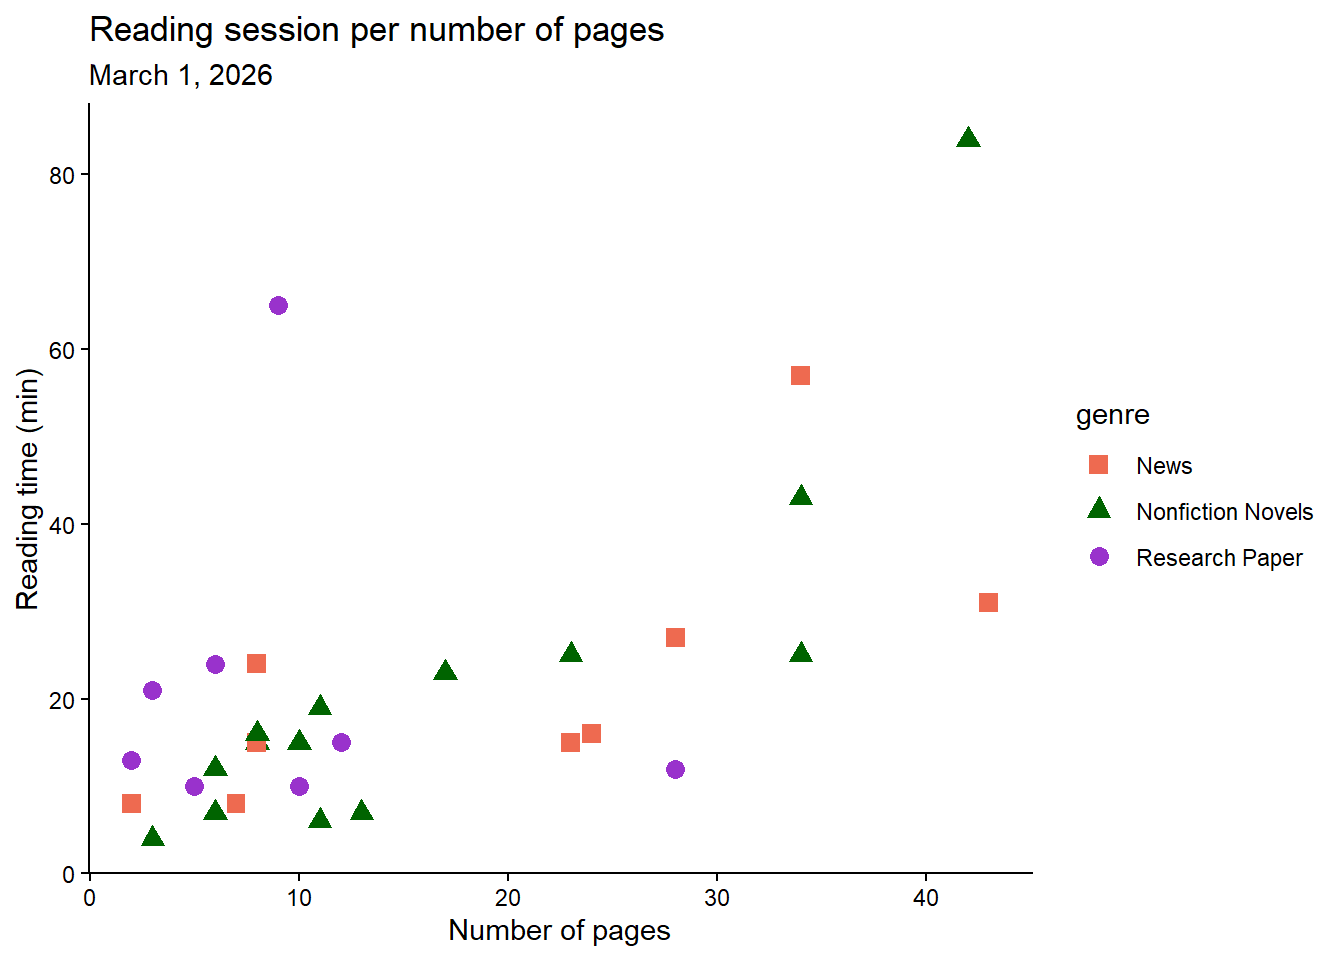
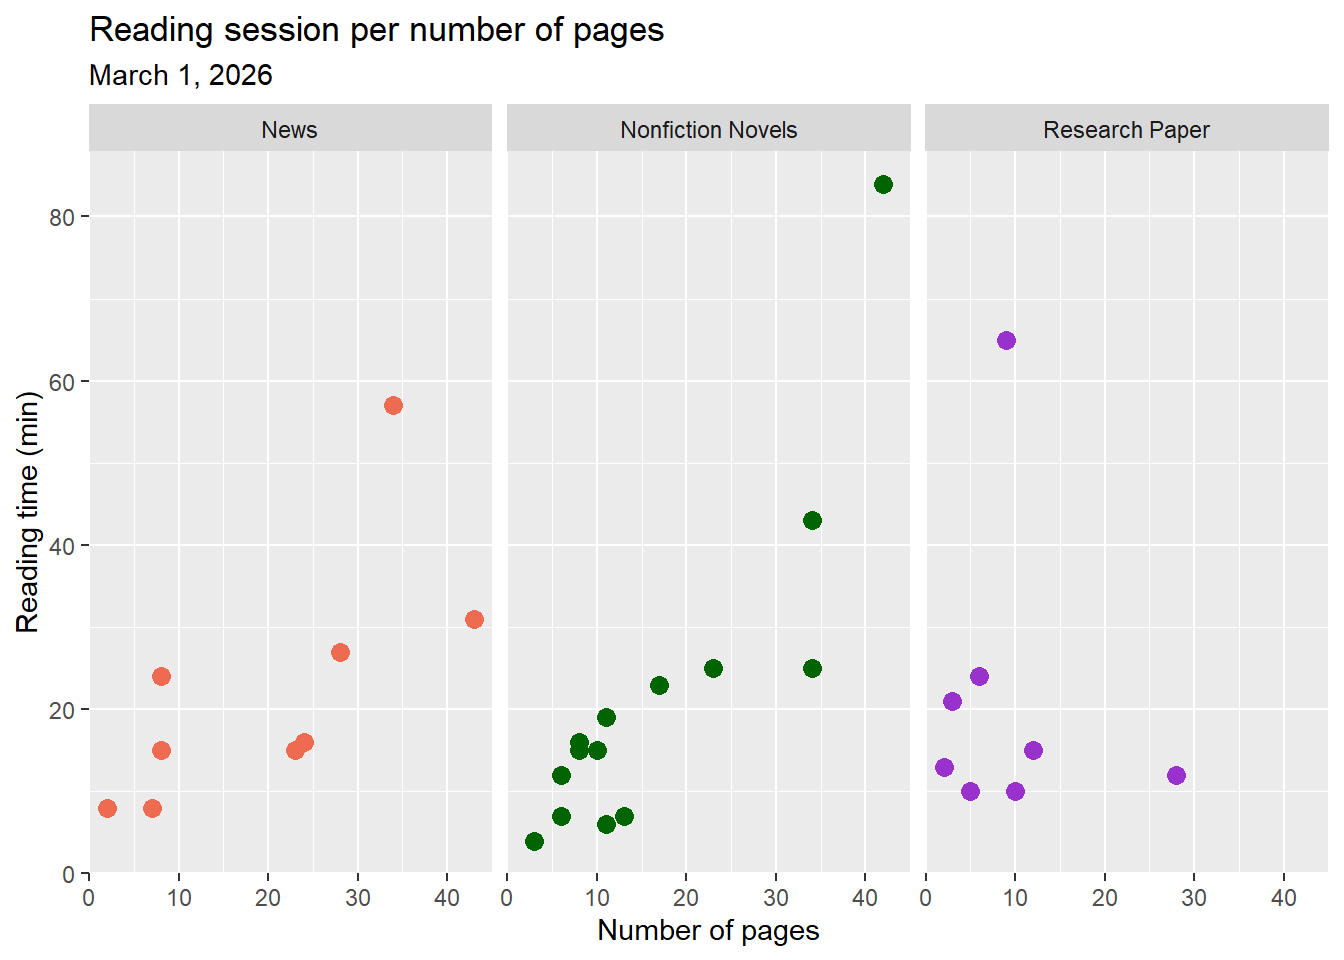
artistic statement, captions, and google slides created

diff --git a/code/03_homework_193DS.html b/code/03_homework_193DS.html
@@ -285,23 +285,24 @@ sample estimates:
 <div class="code-copy-outer-scaffold"><div class="sourceCode cell-code" id="cb11"><pre class="sourceCode r code-with-copy"><code class="sourceCode r"><span id="cb11-1"><a href="#cb11-1" aria-hidden="true" tabindex="-1"></a>reading_data <span class="ot">&lt;-</span> reading_data <span class="sc">|&gt;</span>  <span class="co">#use reading data frame</span></span>
 <span id="cb11-2"><a href="#cb11-2" aria-hidden="true" tabindex="-1"></a>  <span class="fu">clean_names</span>() <span class="sc">|&gt;</span> </span>
 <span id="cb11-3"><a href="#cb11-3" aria-hidden="true" tabindex="-1"></a>  <span class="fu">rename</span>(<span class="st">"reading_time"</span> <span class="ot">=</span> <span class="st">"time_spent_reading_min"</span>,</span>
-<span id="cb11-4"><a href="#cb11-4" aria-hidden="true" tabindex="-1"></a>         <span class="st">"genre"</span> <span class="ot">=</span> <span class="st">"reading_type"</span>)</span>
-<span id="cb11-5"><a href="#cb11-5" aria-hidden="true" tabindex="-1"></a><span class="fu">ggplot</span>(<span class="at">data =</span> reading_data,</span>
-<span id="cb11-6"><a href="#cb11-6" aria-hidden="true" tabindex="-1"></a>       <span class="fu">aes</span>(<span class="at">x =</span> reading_time,</span>
-<span id="cb11-7"><a href="#cb11-7" aria-hidden="true" tabindex="-1"></a>           <span class="at">fill =</span> genre)) <span class="sc">+</span> </span>
-<span id="cb11-8"><a href="#cb11-8" aria-hidden="true" tabindex="-1"></a>  <span class="fu">geom_histogram</span>(<span class="at">bins =</span> <span class="dv">6</span>,</span>
-<span id="cb11-9"><a href="#cb11-9" aria-hidden="true" tabindex="-1"></a>                 <span class="at">color =</span> <span class="st">"black"</span>) <span class="sc">+</span></span>
-<span id="cb11-10"><a href="#cb11-10" aria-hidden="true" tabindex="-1"></a>  <span class="fu">facet_wrap</span>(<span class="sc">~</span>genre) <span class="sc">+</span></span>
-<span id="cb11-11"><a href="#cb11-11" aria-hidden="true" tabindex="-1"></a>  <span class="fu">scale_fill_manual</span>(<span class="at">values =</span> <span class="fu">c</span>(</span>
-<span id="cb11-12"><a href="#cb11-12" aria-hidden="true" tabindex="-1"></a>    <span class="st">"Nonfiction Novels"</span> <span class="ot">=</span> <span class="st">"forestgreen"</span>,</span>
-<span id="cb11-13"><a href="#cb11-13" aria-hidden="true" tabindex="-1"></a>    <span class="st">"News"</span> <span class="ot">=</span> <span class="st">"pink"</span>,</span>
-<span id="cb11-14"><a href="#cb11-14" aria-hidden="true" tabindex="-1"></a>    <span class="st">"Research Paper"</span> <span class="ot">=</span> <span class="st">"darkorchid"</span>,</span>
-<span id="cb11-15"><a href="#cb11-15" aria-hidden="true" tabindex="-1"></a>    <span class="st">"Textbook"</span> <span class="ot">=</span> <span class="st">"cadetblue2"</span>)) <span class="sc">+</span></span>
-<span id="cb11-16"><a href="#cb11-16" aria-hidden="true" tabindex="-1"></a>  <span class="fu">labs</span>(<span class="at">title =</span> <span class="st">"Time Spent Reading Different Genres"</span>, <span class="co">#set title</span></span>
-<span id="cb11-17"><a href="#cb11-17" aria-hidden="true" tabindex="-1"></a>       <span class="at">x =</span> <span class="st">"Reading time (min)"</span>, <span class="co">#set x-axis</span></span>
-<span id="cb11-18"><a href="#cb11-18" aria-hidden="true" tabindex="-1"></a>       <span class="at">y =</span> <span class="st">"count"</span>,<span class="co">#set y-axis</span></span>
-<span id="cb11-19"><a href="#cb11-19" aria-hidden="true" tabindex="-1"></a>       <span class="at">subtitle =</span> <span class="st">"March 1, 2026"</span>) <span class="sc">+</span> </span>
-<span id="cb11-20"><a href="#cb11-20" aria-hidden="true" tabindex="-1"></a>  <span class="fu">theme</span>(<span class="at">legend.position =</span> <span class="st">"none"</span>) <span class="co">#remove legend</span></span></code></pre></div><button title="Copy to Clipboard" class="code-copy-button"><i class="bi"></i></button></div>
+<span id="cb11-4"><a href="#cb11-4" aria-hidden="true" tabindex="-1"></a>         <span class="st">"genre"</span> <span class="ot">=</span> <span class="st">"reading_type"</span>)</span></code></pre></div><button title="Copy to Clipboard" class="code-copy-button"><i class="bi"></i></button></div>
+</div>
+<div class="cell">
+<div class="code-copy-outer-scaffold"><div class="sourceCode cell-code" id="cb12"><pre class="sourceCode r code-with-copy"><code class="sourceCode r"><span id="cb12-1"><a href="#cb12-1" aria-hidden="true" tabindex="-1"></a><span class="fu">ggplot</span>(<span class="at">data =</span> reading_data,</span>
+<span id="cb12-2"><a href="#cb12-2" aria-hidden="true" tabindex="-1"></a>       <span class="fu">aes</span>(<span class="at">x =</span> reading_time,</span>
+<span id="cb12-3"><a href="#cb12-3" aria-hidden="true" tabindex="-1"></a>           <span class="at">fill =</span> genre)) <span class="sc">+</span> </span>
+<span id="cb12-4"><a href="#cb12-4" aria-hidden="true" tabindex="-1"></a>  <span class="fu">geom_histogram</span>(<span class="at">bins =</span> <span class="dv">6</span>,</span>
+<span id="cb12-5"><a href="#cb12-5" aria-hidden="true" tabindex="-1"></a>                 <span class="at">color =</span> <span class="st">"black"</span>) <span class="sc">+</span></span>
+<span id="cb12-6"><a href="#cb12-6" aria-hidden="true" tabindex="-1"></a>  <span class="fu">facet_wrap</span>(<span class="sc">~</span>genre) <span class="sc">+</span></span>
+<span id="cb12-7"><a href="#cb12-7" aria-hidden="true" tabindex="-1"></a>  <span class="fu">scale_fill_manual</span>(<span class="at">values =</span> <span class="fu">c</span>(</span>
+<span id="cb12-8"><a href="#cb12-8" aria-hidden="true" tabindex="-1"></a>    <span class="st">"Nonfiction Novels"</span> <span class="ot">=</span> <span class="st">"forestgreen"</span>,</span>
+<span id="cb12-9"><a href="#cb12-9" aria-hidden="true" tabindex="-1"></a>    <span class="st">"News"</span> <span class="ot">=</span> <span class="st">"pink"</span>,</span>
+<span id="cb12-10"><a href="#cb12-10" aria-hidden="true" tabindex="-1"></a>    <span class="st">"Research Paper"</span> <span class="ot">=</span> <span class="st">"darkorchid"</span>)) <span class="sc">+</span></span>
+<span id="cb12-11"><a href="#cb12-11" aria-hidden="true" tabindex="-1"></a>  <span class="fu">labs</span>(<span class="at">title =</span> <span class="st">"Time Spent Reading Different Genres"</span>, <span class="co">#set title</span></span>
+<span id="cb12-12"><a href="#cb12-12" aria-hidden="true" tabindex="-1"></a>       <span class="at">x =</span> <span class="st">"Reading time (min)"</span>, <span class="co">#set x-axis</span></span>
+<span id="cb12-13"><a href="#cb12-13" aria-hidden="true" tabindex="-1"></a>       <span class="at">y =</span> <span class="st">"Count"</span>,<span class="co">#set y-axis</span></span>
+<span id="cb12-14"><a href="#cb12-14" aria-hidden="true" tabindex="-1"></a>       <span class="at">subtitle =</span> <span class="st">"March 1, 2026"</span>) <span class="sc">+</span> </span>
+<span id="cb12-15"><a href="#cb12-15" aria-hidden="true" tabindex="-1"></a>  <span class="fu">theme</span>(<span class="at">legend.position =</span> <span class="st">"none"</span>) <span class="co">#remove legend</span></span></code></pre></div><button title="Copy to Clipboard" class="code-copy-button"><i class="bi"></i></button></div>
 <div class="cell-output-display">
 <div>
 <figure class="figure">
@@ -309,25 +310,22 @@ sample estimates:
 </figure>
 </div>
 </div>
-<div class="code-copy-outer-scaffold"><div class="sourceCode cell-code" id="cb12"><pre class="sourceCode r code-with-copy"><code class="sourceCode r"><span id="cb12-1"><a href="#cb12-1" aria-hidden="true" tabindex="-1"></a><span class="fu">ggplot</span>(<span class="at">data =</span> reading_data, <span class="co">#create plot with personal data</span></span>
-<span id="cb12-2"><a href="#cb12-2" aria-hidden="true" tabindex="-1"></a>       <span class="fu">aes</span>(<span class="at">x =</span> number_of_pages,<span class="co">#set x axis</span></span>
-<span id="cb12-3"><a href="#cb12-3" aria-hidden="true" tabindex="-1"></a>           <span class="at">y =</span> reading_time, <span class="co">#set y axis</span></span>
-<span id="cb12-4"><a href="#cb12-4" aria-hidden="true" tabindex="-1"></a>           <span class="at">color =</span> genre, <span class="co">#separate by color and genre</span></span>
-<span id="cb12-5"><a href="#cb12-5" aria-hidden="true" tabindex="-1"></a>           <span class="at">shape =</span> genre)) <span class="sc">+</span> <span class="co">#separate by shape and genre </span></span>
-<span id="cb12-6"><a href="#cb12-6" aria-hidden="true" tabindex="-1"></a>  <span class="fu">geom_point</span>(<span class="at">size =</span> <span class="dv">3</span>) <span class="sc">+</span> <span class="co">#add in individual data and adjust size</span></span>
-<span id="cb12-7"><a href="#cb12-7" aria-hidden="true" tabindex="-1"></a>  <span class="fu">labs</span>(<span class="at">title =</span> <span class="st">"Reading session per number of pages"</span>, <span class="co">#add title</span></span>
-<span id="cb12-8"><a href="#cb12-8" aria-hidden="true" tabindex="-1"></a>       <span class="at">x =</span> <span class="st">"Number of pages"</span>, <span class="co">#set x axis title</span></span>
-<span id="cb12-9"><a href="#cb12-9" aria-hidden="true" tabindex="-1"></a>       <span class="at">y =</span> <span class="st">"Reading time (min)"</span>,<span class="co">#set y axis title</span></span>
-<span id="cb12-10"><a href="#cb12-10" aria-hidden="true" tabindex="-1"></a>       <span class="at">subtitle =</span> <span class="st">"March 1, 2026"</span>) <span class="sc">+</span> </span>
-<span id="cb12-11"><a href="#cb12-11" aria-hidden="true" tabindex="-1"></a>  <span class="fu">theme_classic</span>() <span class="sc">+</span> <span class="co">#change theme</span></span>
-<span id="cb12-12"><a href="#cb12-12" aria-hidden="true" tabindex="-1"></a>  <span class="fu">scale_color_manual</span>(<span class="at">values =</span> <span class="fu">c</span>( <span class="co">#change colors manually</span></span>
-<span id="cb12-13"><a href="#cb12-13" aria-hidden="true" tabindex="-1"></a>    <span class="st">"Nonfiction Novels"</span> <span class="ot">=</span> <span class="st">"darkgreen"</span>,</span>
-<span id="cb12-14"><a href="#cb12-14" aria-hidden="true" tabindex="-1"></a>    <span class="st">"Research Paper"</span> <span class="ot">=</span> <span class="st">"darkorchid"</span>,</span>
-<span id="cb12-15"><a href="#cb12-15" aria-hidden="true" tabindex="-1"></a>    <span class="st">"News"</span> <span class="ot">=</span> <span class="st">"coral2"</span>)) <span class="sc">+</span></span>
-<span id="cb12-16"><a href="#cb12-16" aria-hidden="true" tabindex="-1"></a>  <span class="fu">scale_shape_manual</span>(<span class="at">values =</span> <span class="fu">c</span>( <span class="co">#change shape manually</span></span>
-<span id="cb12-17"><a href="#cb12-17" aria-hidden="true" tabindex="-1"></a>    <span class="st">"Nonfiction Novels"</span> <span class="ot">=</span> <span class="dv">17</span>,</span>
-<span id="cb12-18"><a href="#cb12-18" aria-hidden="true" tabindex="-1"></a>    <span class="st">"Research Paper"</span> <span class="ot">=</span> <span class="dv">16</span>,</span>
-<span id="cb12-19"><a href="#cb12-19" aria-hidden="true" tabindex="-1"></a>    <span class="st">"News"</span> <span class="ot">=</span> <span class="dv">15</span>))</span></code></pre></div><button title="Copy to Clipboard" class="code-copy-button"><i class="bi"></i></button></div>
+<div class="code-copy-outer-scaffold"><div class="sourceCode cell-code" id="cb13"><pre class="sourceCode r code-with-copy"><code class="sourceCode r"><span id="cb13-1"><a href="#cb13-1" aria-hidden="true" tabindex="-1"></a><span class="fu">ggplot</span>(<span class="at">data =</span> reading_data, <span class="co">#create plot with personal data</span></span>
+<span id="cb13-2"><a href="#cb13-2" aria-hidden="true" tabindex="-1"></a>       <span class="fu">aes</span>(<span class="at">x =</span> number_of_pages,<span class="co">#set x axis</span></span>
+<span id="cb13-3"><a href="#cb13-3" aria-hidden="true" tabindex="-1"></a>           <span class="at">y =</span> reading_time, <span class="co">#set y axis</span></span>
+<span id="cb13-4"><a href="#cb13-4" aria-hidden="true" tabindex="-1"></a>           <span class="at">color =</span> genre)) <span class="sc">+</span> <span class="co">#separate by color and genre</span></span>
+<span id="cb13-5"><a href="#cb13-5" aria-hidden="true" tabindex="-1"></a>  <span class="fu">geom_point</span>(<span class="at">size =</span> <span class="dv">3</span>) <span class="sc">+</span> <span class="co">#add in individual data and adjust size</span></span>
+<span id="cb13-6"><a href="#cb13-6" aria-hidden="true" tabindex="-1"></a>  <span class="fu">labs</span>(<span class="at">title =</span> <span class="st">"Reading session per number of pages"</span>, <span class="co">#add title</span></span>
+<span id="cb13-7"><a href="#cb13-7" aria-hidden="true" tabindex="-1"></a>       <span class="at">x =</span> <span class="st">"Number of pages"</span>, <span class="co">#set x axis title</span></span>
+<span id="cb13-8"><a href="#cb13-8" aria-hidden="true" tabindex="-1"></a>       <span class="at">y =</span> <span class="st">"Reading time (min)"</span>,<span class="co">#set y axis title</span></span>
+<span id="cb13-9"><a href="#cb13-9" aria-hidden="true" tabindex="-1"></a>       <span class="at">subtitle =</span> <span class="st">"March 1, 2026"</span>) <span class="sc">+</span> </span>
+<span id="cb13-10"><a href="#cb13-10" aria-hidden="true" tabindex="-1"></a>  <span class="fu">theme_gray</span>() <span class="sc">+</span> <span class="co">#change theme</span></span>
+<span id="cb13-11"><a href="#cb13-11" aria-hidden="true" tabindex="-1"></a>  <span class="fu">scale_color_manual</span>(<span class="at">values =</span> <span class="fu">c</span>( <span class="co">#change colors manually</span></span>
+<span id="cb13-12"><a href="#cb13-12" aria-hidden="true" tabindex="-1"></a>    <span class="st">"Nonfiction Novels"</span> <span class="ot">=</span> <span class="st">"darkgreen"</span>,</span>
+<span id="cb13-13"><a href="#cb13-13" aria-hidden="true" tabindex="-1"></a>    <span class="st">"Research Paper"</span> <span class="ot">=</span> <span class="st">"darkorchid"</span>,</span>
+<span id="cb13-14"><a href="#cb13-14" aria-hidden="true" tabindex="-1"></a>    <span class="st">"News"</span> <span class="ot">=</span> <span class="st">"coral2"</span>)) <span class="sc">+</span></span>
+<span id="cb13-15"><a href="#cb13-15" aria-hidden="true" tabindex="-1"></a>  <span class="fu">facet_wrap</span>(<span class="sc">~</span>genre) <span class="sc">+</span></span>
+<span id="cb13-16"><a href="#cb13-16" aria-hidden="true" tabindex="-1"></a>  <span class="fu">theme</span>(<span class="at">legend.position =</span> <span class="st">"none"</span>)</span></code></pre></div><button title="Copy to Clipboard" class="code-copy-button"><i class="bi"></i></button></div>
 <div class="cell-output-display">
 <div>
 <figure class="figure">
@@ -339,8 +337,8 @@ sample estimates:
 </section>
 <section id="b.-captions" class="level3">
 <h3 class="anchored" data-anchor-id="b.-captions">b. Captions</h3>
-<p>Figure 1. Nonfiction novels consume the most reading time. Data was collected by the author. Bars represent</p>
-<p>Figure 2. As the number of pages increases, reading time also increases. Points represent individual reading sessions with time of session (min) and number of pages recorded. Colors and shape represent the three types of reading genres (coral squares: News, green triangle: Nonfiction Novels, and blue circles: Research Papers).</p>
+<p><strong>Figure 1. Nonfiction novels consume the most reading time. Data was collected by the author.</strong> The height of the bars represents how many reading sessions lasted the corresponding time length within each genre. Genres are separated by panels and defined by different colors (pink: News, green: Nonfiction Novels, purple: Research Paper). Data was collected from January 6, 2026 to March 1, 2026 by Ian Del Tredici.</p>
+<p><strong>Figure 2. As the number of pages increases, reading time also increases.</strong> Points represent individual reading sessions with time of session (min) and number of pages recorded. Colors represent the three types of reading genres (coral: News, green: Nonfiction Novels, and blue: Research Paper). Panels also divide genres. Data collected from January 6, 2026 to March 1, 2026 by Ian Del Tredici.</p>
 </section>
 </section>
 <section id="problem-3.-affective-visulization" class="level1">
@@ -352,7 +350,7 @@ sample estimates:
 <section id="b.-create-a-sketch-on-paper-of-your-idea." class="level3">
 <h3 class="anchored" data-anchor-id="b.-create-a-sketch-on-paper-of-your-idea.">b. Create a sketch (on paper) of your idea.</h3>
 <div class="cell">
-<div class="code-copy-outer-scaffold"><div class="sourceCode cell-code" id="cb13"><pre class="sourceCode r code-with-copy"><code class="sourceCode r"><span id="cb13-1"><a href="#cb13-1" aria-hidden="true" tabindex="-1"></a>knitr<span class="sc">::</span><span class="fu">include_graphics</span>(<span class="fu">here</span>(<span class="st">"code"</span>, <span class="st">"data_vis_sketch.jpeg"</span>)) <span class="co">#insert image of sketch</span></span></code></pre></div><button title="Copy to Clipboard" class="code-copy-button"><i class="bi"></i></button></div>
+<div class="code-copy-outer-scaffold"><div class="sourceCode cell-code" id="cb14"><pre class="sourceCode r code-with-copy"><code class="sourceCode r"><span id="cb14-1"><a href="#cb14-1" aria-hidden="true" tabindex="-1"></a>knitr<span class="sc">::</span><span class="fu">include_graphics</span>(<span class="fu">here</span>(<span class="st">"code"</span>, <span class="st">"data_vis_sketch.jpeg"</span>)) <span class="co">#insert image of sketch</span></span></code></pre></div><button title="Copy to Clipboard" class="code-copy-button"><i class="bi"></i></button></div>
 <div class="cell-output-display">
 <div>
 <figure class="figure">
@@ -365,7 +363,7 @@ sample estimates:
 <section id="c.-create-a-draft-of-your-visualization." class="level3">
 <h3 class="anchored" data-anchor-id="c.-create-a-draft-of-your-visualization.">c.&nbsp;Create a draft of your visualization.</h3>
 <div class="cell">
-<div class="code-copy-outer-scaffold"><div class="sourceCode cell-code" id="cb14"><pre class="sourceCode r code-with-copy"><code class="sourceCode r"><span id="cb14-1"><a href="#cb14-1" aria-hidden="true" tabindex="-1"></a>knitr<span class="sc">::</span><span class="fu">include_graphics</span>(<span class="fu">here</span>(<span class="st">"code"</span>, <span class="st">"data_vis_draft.jpeg"</span>)) <span class="co">#insert image of sketch</span></span></code></pre></div><button title="Copy to Clipboard" class="code-copy-button"><i class="bi"></i></button></div>
+<div class="code-copy-outer-scaffold"><div class="sourceCode cell-code" id="cb15"><pre class="sourceCode r code-with-copy"><code class="sourceCode r"><span id="cb15-1"><a href="#cb15-1" aria-hidden="true" tabindex="-1"></a>knitr<span class="sc">::</span><span class="fu">include_graphics</span>(<span class="fu">here</span>(<span class="st">"code"</span>, <span class="st">"data_vis_draft.jpeg"</span>)) <span class="co">#insert image of sketch</span></span></code></pre></div><button title="Copy to Clipboard" class="code-copy-button"><i class="bi"></i></button></div>
 <div class="cell-output-display">
 <div>
 <figure class="figure">
@@ -380,7 +378,17 @@ sample estimates:
 <p>My data visualization showcases my reading habits by painting the fore-edge of a book different colors based on the different genres. In other words, each stripe on the book represents the genre and time spent reading each genre.</p>
 <p>I was influenced heavily by the warming stripes visualization shown in class that depicts the average temperature of each year since 1850. I’ve also seen very detailed fore-edge painting of a book which inspired me to combine the two ideas into one.</p>
 <p>The work will be created using acrylic paints on a physical book.</p>
-<p>To start, I created a ratio of minutes read to physical pages and translated.</p>
+<p>To start, I created a ratio of minutes read to physical pages and used that to map my data set onto a physical book. Using those marking to delineate the number of pages that needed to be painted for each reading session, I used acrylic paints to carefully paint according to the genre. Each of the 31 reading sessions was painted across the depth of the book, creating a myriad of colorful stripes that visually show the most common genre of reading I did.</p>
+</section>
+<section id="e.-prep-your-materials-to-share-in-class" class="level3">
+<h3 class="anchored" data-anchor-id="e.-prep-your-materials-to-share-in-class">e. Prep your materials to share in class</h3>
+<p><a href="https://docs.google.com/presentation/d/1AHTPlw0NANjdVbw2Ea0nYsnRrkLqPET7iSmSy-w6sb8/edit?slide=id.g3ccafcfad53_0_1465#slide=id.g3ccafcfad53_0_1465">Google slides</a></p>
+</section>
+</section>
+<section id="problem-4-statistical-critique" class="level1">
+<h1>Problem 4 Statistical critique</h1>
+<section id="a.-revist-and-summarize" class="level3">
+<h3 class="anchored" data-anchor-id="a.-revist-and-summarize">a. Revist and summarize</h3>
 </section>
 </section>
 
